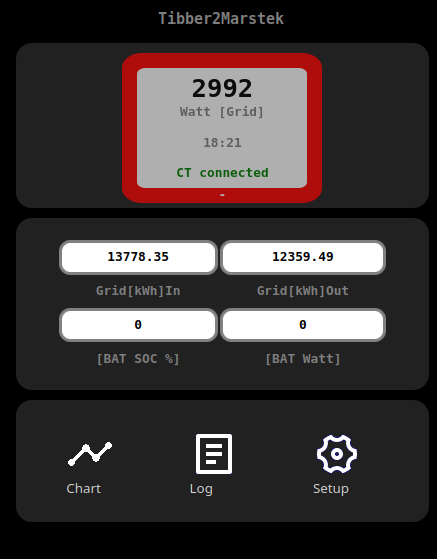
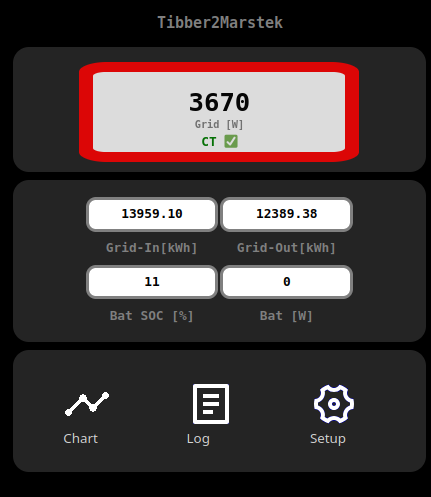
readme update

diff --git a/readme.md b/readme.md
@@ -1,8 +1,16 @@
-# 'Tibber-Pulse-Bridge' --> 'Marstek-Venus' 
+# Energy meter simulation for 'Tibber-Pulse' to 'Marstek'
 
-Use your 'Tibber-Pulse-Bridge' Adapter in 'self-consumption mode' for 'MARSTEK-Venus' energy storage system.
+#### Use your **'Tibber-Pulse-Bridge'** Adapter as energy meter simulation for 'self-consumption' mode of **'MARSTEK'** energy storage systems 
 
-![screenshot](pict/tibber_pulse_bridge.png) **<-->** ![screenshot](pict/marstek_app.png)
+![screenshot](pict/tibber_pulse_bridge.png)
+Tibber <-HTTP-connection-> Tibber2Marstek
+![screenshot](pict/start_page.png)
+Tibber2Marstek <-UDP-connection--> MARSTEK
+![screenshot](pict/marstek_app.png)
+
+### *NEW:* implementation of 'MARSTEK local API'
+The MARSTEK API-implementation is beta, because Marstek has still a bug in there implementation --> after some hours we get no responce from the MARSTEK device (testet with VENUS-E V3 Firmware V139). Until now the app reads the Bat-SOC (state of charge) and actual Bat-Power.
+ ...but this bug is not related to the base function 'Shelly Emulation'.
 
 This solution is running on a ESP8255, ESP32, ESP32-S2 or -S3 Microcontroller. 
 * You need no additional hardware interface  ... works without any external adapter.
@@ -23,15 +31,15 @@ This is a minimal implementation to communicate with the MARSTEK System over UDP
 It is (until now) not a full implementaton of all Shelly RPC protocols: only 'EM1.GetStatus'...NO HTTP, NO Webservice, No MQTT.
 (look at  https://github.com/Raibisch/Energy2Shelly_ESP for a full implementation..but with no Web-App pages)
 
-there is a CSV based remote procedure call response
-``` http:your-ip/fetch  ```  response:  ```12:55,-444,1,0,0,0,0,0``` (time,power,responseWatchdog)
-
+there is a CSV based remote procedure call response for for data access on own applications (e.g. homeautomation like home-assistant)
+``` http:your-ip/fetch  ```  response:  ```12:55,-444,1111.0,2222.0,0,33,444``` (time,grid_power,grid_kwh_in,grid_kwh_out,responseWatchdog,bat_soc,bat_power)
+ ...could be expanded to JSON for future versions (give me a response if you need this).
 
 #### Remark for the program implementation:
 The program is based on the libs 'SMLDecode' and 'EMxSimulator' these could be used stand-alone for own implementations. for the Web-App I use some additional libs from my "AsyncWeb" framework (in 'lib' folder). These Web-App Framework is used for my other projects and needs a 'data' folder for storing the Web-pages and the config-File.
-...why using SPIFFS and not LITTLEFS: SPIFFS has still a smaller code footprint an for my application no backdraw (but could be changed in future)
-...to compilicated: use  'SMLDecode' and 'EMxSimulator' for your own implementation (I will add an minimal console based example in the 'example' folder)
-...no ESP: try to compile to your platform
+ ...why using SPIFFS and not LITTLEFS: SPIFFS has still a smaller code footprint an for my application no backdraw (but could be changed in future)
+ ...to compilicated: use  'SMLDecode' and 'EMxSimulator' for your own implementation (I will add an minimal console based example in the 'example' folder)
+ ...no ESP: try to compile to your platform
 
 #### Todo (possible Extentions)
 * MARSTEK open API (alpha Version is included in '/lib/MastekAPI' for first testing)
